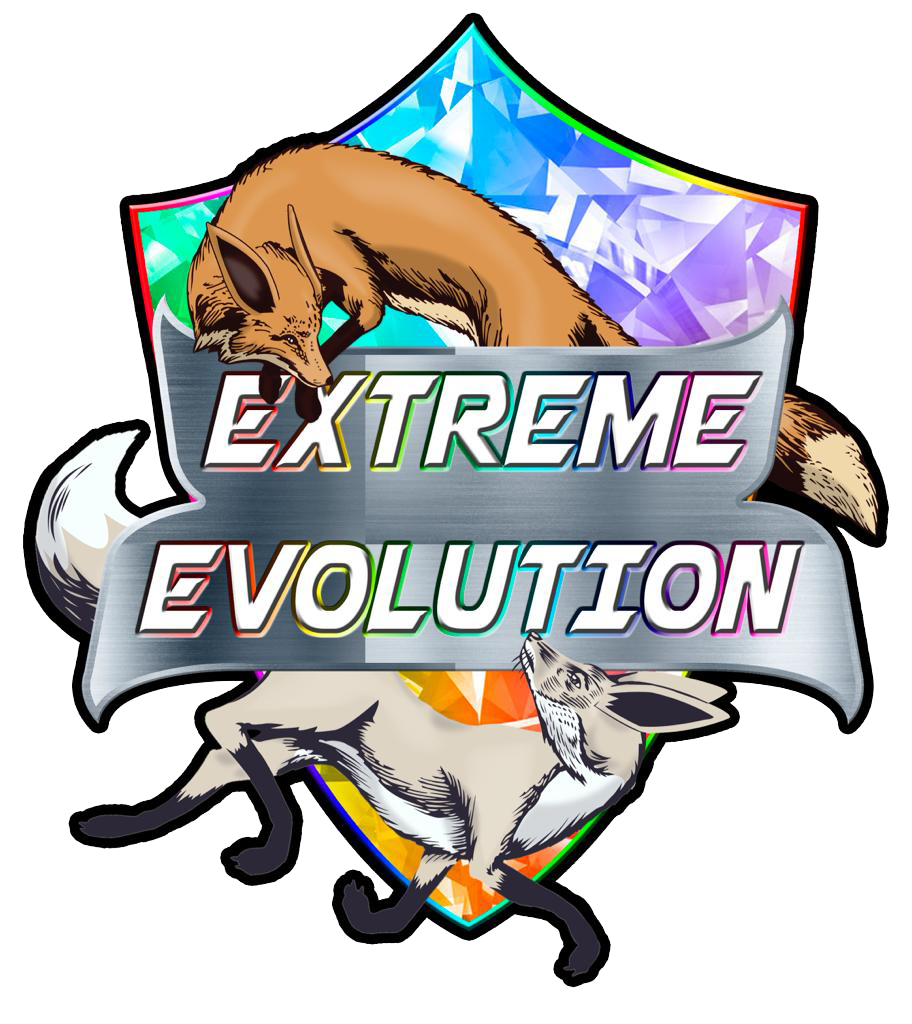
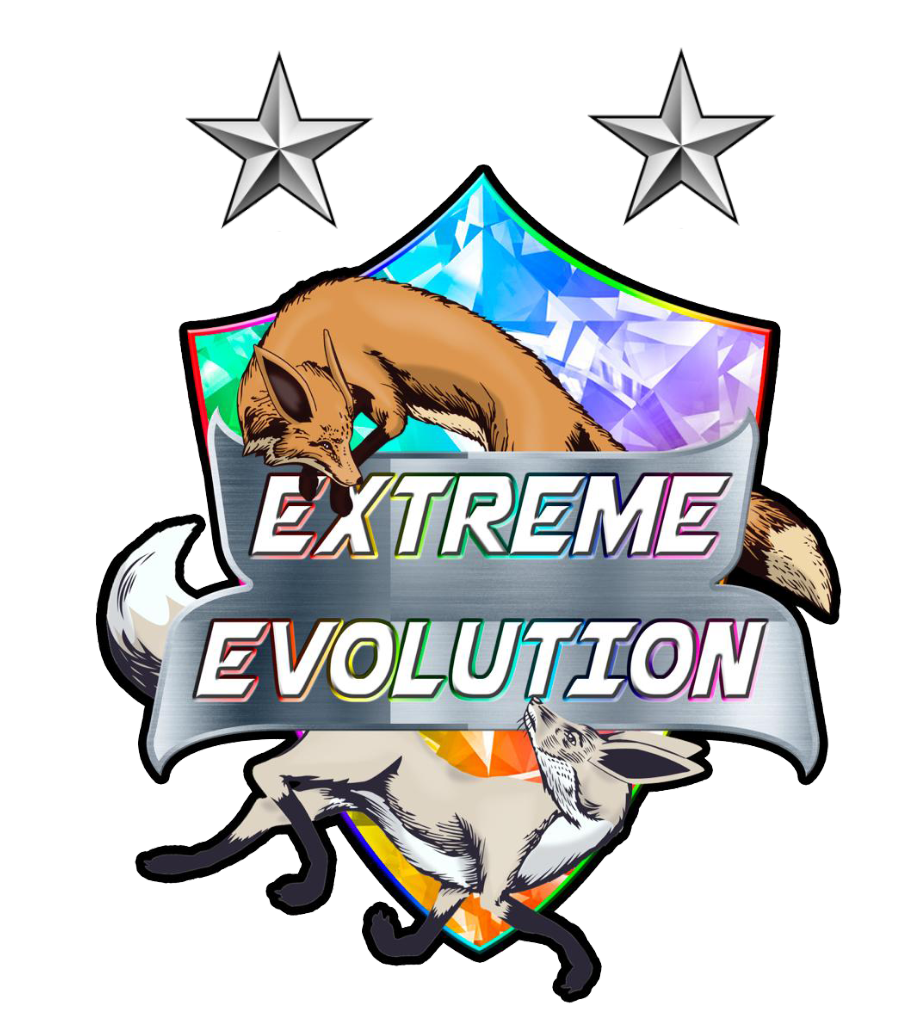
finalizando a 1a parte

diff --git a/src/app/card/card.component.html b/src/app/card/card.component.html
@@ -1,22 +1,31 @@
 <!-- Card -->
-<div class="bg-white shadow-md rounded-lg overflow-hidden cursor-pointer" (click)="openModal()">
-    <img [src]="person.photo" alt="Photo of {{ person.name }}"
-        class="w-full h-40 object-cover rounded-full mx-auto mt-4 object-top">
-    <div class="p-4 text-center">
-        <h3 class="text-xl font-semibold">{{ person.name }}</h3>
-        <p class="text-gray-600">{{ person.nickname }}</p>
+<div class="relative bg-cover bg-center rounded-lg overflow-hidden cursor-pointer"
+    style="background-image: url('assets/terastal.jpg');" (click)="openModal()">
+    <!-- Overlay layer -->
+    <div class="absolute inset-0 bg-black bg-opacity-50"></div>
+    <!-- Card content -->
+    <div class="relative z-10 p-4 text-center">
+        <img [src]="person.photo" alt="Photo of {{ person.name }}"
+            class="w-full h-40 object-cover rounded-lg mx-auto mb-4 object-top">
+        <h3 class="text-xl text-white font-bold" style="font-family: 'SUSE', sans-serif;">{{ person.name }}</h3>
+        <p class="text-white">{{ person.nickname }}</p>
     </div>
 </div>
 
+
 <!-- Modal -->
 <div *ngIf="isModalOpen" class="fixed inset-0 bg-gray-800 bg-opacity-75 flex items-center justify-center z-50">
-    <div class="bg-white p-6 rounded-lg max-w-md w-full relative text-center max-h-[90vh] overflow-y-auto">
-        <button (click)="closeModal()" class="absolute top-4 right-4 text-2xl z-10 text-gray-500 hover:text-gray-700">
+    <div class="bg-cover bg-center relative p-6 rounded-lg max-w-md w-full text-center max-h-[90vh] overflow-y-auto"
+        style="background-image: url('assets/terastal.jpg');">
+        <button (click)="closeModal()" class="absolute top-2 right-2 text-2xl z-10 text-black">
             <i class="fas fa-times"></i>
         </button>
-        <img [src]="person.photo" alt="Photo of {{ person.name }}" class="w-3/4 h-auto mx-auto rounded-lg">
-        <h3 class="text-2xl font-semibold mt-4">{{ person.name }}</h3>
-        <p class="text-gray-600">{{ person.nickname }}</p>
-        <p class="mt-2" [innerHTML]="person.description"></p>
+        <div class="bg-black bg-opacity-50 p-6 rounded-lg">
+            <img [src]="person.photo" alt="Photo of {{ person.name }}" class="w-3/4 h-auto mx-auto rounded-full">
+            <h3 class="text-2xl font-bold mt-4 text-white" style="font-family: 'SUSE', sans-serif;">{{ person.name }}
+            </h3>
+            <p class="text-white font-sans">{{ person.nickname }}</p>
+            <p class="mt-2 text-white font-sans" [innerHTML]="person.description"></p>
+        </div>
     </div>
 </div>

diff --git a/src/app/cabecalho/cabecalho.component.html b/src/app/cabecalho/cabecalho.component.html
@@ -1,11 +1,16 @@
-<header class="bg-gray-700 text-white p-4 flex flex-col sm:flex-row items-center w-full">
-    <div class="sm:basis-1/6 lg:ml-12">
-        <a href="/" class="inline-block"><img src="assets/extreme_evolution.png" alt="Logo" class="h-20"></a>
-    </div>
-    <nav
-        class="flex flex-col sm:flex-row sm:basis-5/6 w-full sm:w-auto sm:justify-around space-y-4 sm:space-y-0 text-center">
-        <a href="#sobrenos" class="hover:text-gray-300">Quem somos</a>
-        <a href="#players" class="hover:text-gray-300">Nossos Players</a>
-        <a href="#titulos" class="hover:text-gray-300">Nossos Títulos</a>
+<header class="relative p-4 lg:px-40 flex flex-col font-bold sm:flex-row items-center w-full bg-cover bg-center"
+    style="background-image: url('assets/terastal.jpg');">
+    <div class="absolute inset-0 bg-black bg-opacity-50 pointer-events-none"></div>
+    <nav class="relative flex flex-col sm:flex-row w-full sm:justify-between text-center">
+        <a href="#sobrenos"
+            class="text-white p-2 rounded-lg whitespace-nowrap inline-block hover:text-red-300 transition-colors">Quem
+            somos</a>
+        <a href="#players"
+            class="text-white p-2 rounded-lg whitespace-nowrap inline-block hover:text-green-300 transition-colors">Nossos
+            Players</a>
+        <a href="#titulos"
+            class="text-white p-2 rounded-lg whitespace-nowrap inline-block hover:text-purple-300 transition-colors">Nossos
+            Títulos</a>
+
     </nav>
 </header>

diff --git a/src/app/quem-somos/quem-somos.component.html b/src/app/quem-somos/quem-somos.component.html
@@ -1,14 +1,16 @@
-<div class="my-20 flex items-center justify-center text-center p-4">
+<div class="my-10 flex items-center justify-center text-center p-4">
     <div class="max-w-3xl">
+        <img src="assets/extreme_evolution.png" class="h-52 mx-auto block mb-8">
         <section id="sobrenos">
-            <h1 class="text-4xl font-bold mb-4">Quem Somos</h1>
+            <h1 class="text-4xl font-bold mb-4" style="font-family: 'SUSE', sans-serif;">Quem Somos</h1>
         </section>
-        <p class="text-lg">
+        <p class="text-lg font-sans">
             Extreme Evolution eSports, fomos o primeiro time brasileiro de VGC criado em 2017 pela Juiza Ary Luz. Após a
             sua saída em 2018, Gustavo Braz assumiu a liderança e continua até os dias de hoje. A equipe, também
             conhecida como EEE ou raposas, tem como objetivo revelar grandes promessas do VGC BR e da América Latina
             para prepará-los a competir nos torneios presenciais. As raposas é a única equipe brasileira com mais
-            títulos, 3 no total, sendo campeão duas vezes da SuperLiga LCV em 2021 e 2023 e da Recopa Latina 2022. Sem
+            títulos, 3 no total, sendo campeão duas vezes da SuperLiga LCV em 2021 e 2023 (as estrelas em nosso escudo
+            representam esses títulos) e da Recopa Latina 2022. Sem
             contar que é única equipe brasileira com mais participações (4) ao todo na VCL, que é o torneio de liga
             Mundial por equipes.
         </p>

diff --git a/src/app/nossos-titulos/nossos-titulos.component.html b/src/app/nossos-titulos/nossos-titulos.component.html
@@ -1,20 +1,20 @@
 <div class="my-20 flex items-center justify-center text-center p-4">
     <div class="max-w-3xl">
         <section id="titulos">
-            <h1 class="text-4xl font-bold mb-4">Nossos Títulos</h1>
+            <h1 class="text-4xl font-bold mb-4" style="font-family: 'SUSE', sans-serif;">Nossos Títulos</h1>
         </section>
         <div class="flex flex-col sm:flex-row sm:justify-between gap-8">
             <div class="flex-1">
                 <img src="/assets/superliga21.jpeg" alt="Título 1" class="w-full">
-                <p class="mt-2 text-lg font-semibold">Superliga 2021</p>
+                <p class="mt-2 text-lg font-sans">Superliga 2021</p>
             </div>
             <div class="flex-1">
                 <img src="/assets/recopa.jpeg" alt="Título 2" class="w-full">
-                <p class="mt-2 text-lg font-semibold">Recopa Latina 2023</p>
+                <p class="mt-2 text-lg font-sans">Recopa Latina 2023</p>
             </div>
             <div class="flex-1">
                 <img src="/assets/superliga23.jpeg" alt="Título 3" class="w-full">
-                <p class="mt-2 text-lg font-semibold">Superliga 2023</p>
+                <p class="mt-2 text-lg font-sans">Superliga 2023</p>
             </div>
         </div>
     </div>

diff --git a/src/app/rodape/rodape.component.html b/src/app/rodape/rodape.component.html
@@ -1,11 +1,12 @@
-<footer class="bg-gray-800 text-white p-6 flex flex-col items-center">
+<footer class="text-white p-6 flex flex-col items-center font-bold bg-cover bg-center"
+    style="background-image: url('assets/terastal.jpg'); background-color: rgba(0, 0, 0, 0.5); background-blend-mode: overlay;">
     <p class="mb-4">Siga-nos em nossas redes sociais</p>
     <div class="flex space-x-6">
-        <a href="https://x.com/EEvolutionVGC?t=aeWFcAAJkcROF29jljLQrA&s=09" target="_blank" class="hover:text-gray-400">
+        <a href="https://x.com/EEvolutionVGC?t=aeWFcAAJkcROF29jljLQrA&s=09" target="_blank" class="hover:text-gray-300">
             <i class="fab fa-x fa-2x"></i>
         </a>
         <a href="https://www.instagram.com/eevolutionvgc?igsh=MWRjendpcDIyeHYxaA==" target="_blank"
-            class="hover:text-gray-400">
+            class="hover:text-gray-300">
             <i class="fab fa-instagram fa-2x"></i>
         </a>
     </div>

diff --git a/src/app/app.component.html b/src/app/app.component.html
@@ -1,9 +1,9 @@
 <app-cabecalho></app-cabecalho>
 <app-quem-somos></app-quem-somos>
 <section id="players">
-  <h1 class="text-4xl font-bold mb-4 text-center">Nossos Players</h1>
+  <h1 class="text-4xl font-bold mb-4 text-center font-sans" style="font-family: 'SUSE', sans-serif;">Nossos Players</h1>
 </section>
-<div class="grid sm:grid-cols-2 md:grid-cols-2 lg:grid-cols-4 gap-4 p-4">
+<div class="grid grid-cols-1 sm:grid-cols-2 md:grid-cols-2 lg:grid-cols-4 gap-4 p-4">
   <app-card *ngFor="let person of people" [person]="person"></app-card>
 </div>
 <app-nossos-titulos></app-nossos-titulos>

diff --git a/src/index.html b/src/index.html
@@ -9,6 +9,7 @@
   <link rel="icon" type="image/x-icon" href="assets/extreme_evolution.png">
   <link href="https://fonts.googleapis.com/css2?family=Roboto:wght@300;400;500&display=swap" rel="stylesheet">
   <link href="https://fonts.googleapis.com/icon?family=Material+Icons" rel="stylesheet">
+  <link href="https://fonts.googleapis.com/css2?family=SUSE:wght@100..800&display=swap" rel="stylesheet">
   <link rel="stylesheet" href="https://cdnjs.cloudflare.com/ajax/libs/font-awesome/6.0.0-beta3/css/all.min.css">
 
 </head>

diff --git a/src/app/final/final.component.html b/src/app/final/final.component.html
@@ -1,4 +1,5 @@
-<h3 class="text-center text-xl sm:text-2xl md:text-3xl lg:text-4xl px-4 md:px-8 lg:px-16">
+<h3 class="text-center text-xl sm:text-2xl md:text-3xl lg:text-4xl px-4 md:px-8 lg:px-16"
+    style="font-family: 'SUSE', sans-serif;">
     Gostou do site? Então junte-se à comunidade clicando na imagem abaixo!
 </h3>
 <div class="flex justify-center items-center">

diff --git a/tailwind.config.js b/tailwind.config.js
@@ -4,7 +4,11 @@ module.exports = {
     "./src/**/*.{html,ts}",
   ],
   theme: {
-    extend: {},
+    extend: {
+      fontFamily: {
+        sans: ['SUSE', 'sans-serif'],
+      },
+    },
   },
   plugins: [],
 }
